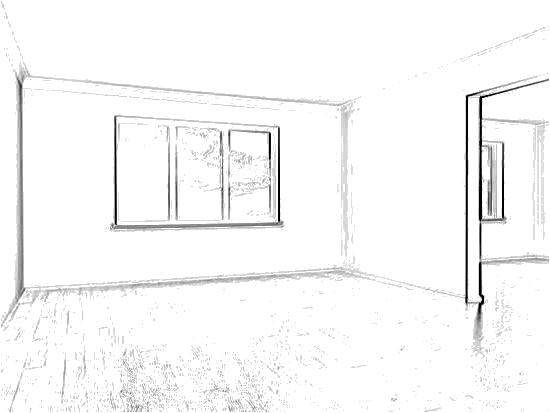
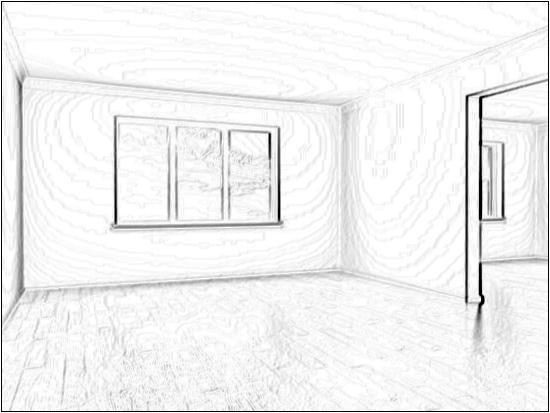
update

diff --git a/src/ImageProcessor.java b/src/ImageProcessor.java
@@ -39,9 +39,13 @@ public class ImageProcessor {
     private int thetaStrides;
     private int pStrides;
     /* Save sin and cos values for future calculation. */
-    private double sinArray[];
-    private double cosArray[];
+    private double[] sinArray;
+    private double[] cosArray;
     private int[][] houghTable;
+
+    /* for threshold */
+    private int[][] t1Image;
+    private int[][] t2Image;
 
     /* ----  Constructor ---- */
     public ImageProcessor(int[][] matrix, String id, int thetaStrides, int pStrides) {
@@ -63,6 +67,9 @@ public class ImageProcessor {
         cosArray = new double[this.thetaStrides];
         houghTable = new int[thetaStrides][pStrides];
         grayImage = image.clone();
+
+        this.t1Image = new int[height][width];
+        this.t2Image = new int[height][width];
     }
 
     /* --------------------- public methods ----------------------- */
@@ -83,20 +90,16 @@ public class ImageProcessor {
             }
         }
 
+
         String output = "./OutputImages/" + id + "_gaussian.jpg";
         drawImage(gaussianImage, output);
 
-//        for (int i = 0; i < 5; i++) {
-//            for (int j = 0; j < 5; j++) {
-//                System.out.print(mask[i][j] + " ");
-//            }
-//            System.out.println();
-//        }
+        image = gaussianImage.clone();
 
     }
 
     public void Sobel() {
-        int threshold = 30;
+        int threshold = 0;
         /* sobel operators */
         int[][] sobelX = {
                 {1, 0, -1},
@@ -188,15 +191,64 @@ public class ImageProcessor {
             }
         }
 
+
+
         image = nmsImage.clone();
 
         String output = "./OutputImages/" + id + "_nms.jpg";
         drawImage(nmsImage, output);
 
+        System.out.println("Non-maximum suppression end for " + id + ".");
     }
 
-    public void thresholding() {
+    /* threshold the image, use double threshold */
+    public void threshold(int t2) {
+        // 8-neighbours
+        int t1 = t2 / 2;
+        int[][] interPixels = new int[height][width];
+        for (int i = 0; i < height; i++) {
+            for (int j = 0; j < width; j++) {
+                t1Image[i][j] = image[i][j];
+                t2Image[i][j] = image[i][j];
+                if (image[i][j] + t1 > 255) {
+                    t1Image[i][j] = 255;
+                }
+                if (image[i][j] + t2 > 255) {
+                    t2Image[i][j] = 255;
+                }
+            }
+        }
 
+        for (int i = 0; i < height; i++) {
+            for (int j = 0; j < width; j++) {
+                if (t2Image[i][j] != 255) {
+                    checkNeighbors(interPixels, i, j);
+                }
+            }
+        }
+
+        for (int i = 0; i < height; i++) {
+            for (int j = 0; j < width; j++) {
+                if (interPixels[i][j] != 0 && t2Image[i][j] == 255) {
+                    t2Image[i][j] = interPixels[i][j];
+                }
+            }
+        }
+
+        // clean the boundary of the image
+        cleanBoundary(t1Image, 5);
+        cleanBoundary(t2Image, 5);
+
+        String interFile = "./OutputImages/" + id + "_interT.jpg";
+        drawImage(interPixels, interFile);
+
+        String t1File = "./OutputImages/" + id + "_t1.jpg";
+        String t2File = "./OutputImages/" + id + "_t2.jpg";
+        drawImage(t1Image, t1File);
+        drawImage(t2Image, t2File);
+
+        image = t2Image.clone();
+        System.out.println("Threshold end for " + id + ".");
     }
 
 
@@ -229,7 +281,6 @@ public class ImageProcessor {
         for (int i = 0; i < scale; i++) {
             for (int j = 0; j < scale; j++) {
                 double cur = gaussian(i - center, j - center, sigma);
-                System.out.println("gaussian: " + cur);
                 mask[i][j] = cur;
             }
         }
@@ -299,7 +350,24 @@ public class ImageProcessor {
         return false;
     }
 
-    /* ---- For houghTransform ---- */
+    /* ---- For threshold() ---- */
+    private void checkNeighbors(int[][] inter, int i, int j) {
+        // add connected points to the t2Image from t1Image
+        if (i < 2 || j < 2 || i > width - 2 || j > height - 2) {
+            return;
+        }
+        for (int m = 0; m < 3; m++) {
+            for (int n = 0; n < 3; n++) {
+                if (t2Image[i - 1 + m][j - 1 + n] == 255 && inter[i - 1 + m][j - 1 + n] == 0
+                        && t1Image[i - 1 + m][j - 1 + m] != 255) {
+                    inter[i - 1 + m][j - 1 + n] = t1Image[i - 1 + m][j - 1 + n];
+                }
+            }
+        }
+
+    }
+
+    /* ---- For houghTransform() ---- */
 
     /*
         i-j coordinate system.
@@ -468,7 +536,6 @@ public class ImageProcessor {
         File newImgFile = new File(path);
         int width = matrix[0].length;
         int height = matrix.length;
-        // System.out.println(" " + width + " " + height);
         try {
             BufferedImage image = new BufferedImage(matrix[0].length, matrix.length, BufferedImage.TYPE_3BYTE_BGR);
             for (int i = 0; i < width; i++) {
@@ -483,7 +550,37 @@ public class ImageProcessor {
         }
     }
 
+    /* get rid of the boundary caused by convolution */
+    private void cleanBoundary(int[][] matrix, int mag) {
+        for (int i = 0; i < mag; i++) {
+            for (int j = 0; j < height; j++) {
+                // gaussianImage[j][i] = image[j][i];
+                matrix[j][i] = 255;
+            }
+        }
+        for (int i = width - mag; i < width; i++) {
+            for (int j = 0; j < height; j++) {
+                // gaussianImage[j][i] = image[j][i];
+                matrix[j][i] = 255;
+            }
+        }
+        for (int i = 0; i < mag; i++) {
+            for (int j = 0; j < width; j++) {
+                // gaussianImage[i][j] = image[i][j];
+                matrix[i][j] = 255;
+            }
+        }
+        for (int i = height - mag; i < height; i++) {
+            for (int j = 0; j < width; j++) {
+                // gaussianImage[i][j] = image[i][j];
+                matrix[i][j] = 255;
+            }
+        }
+    }
 }
+
+
+
 
 
 /* ---- utility class ---- */

diff --git a/src/ParallelogramDetection.java b/src/ParallelogramDetection.java
@@ -25,23 +25,27 @@ public class ParallelogramDetection {
         imgProcessor.GaussianBlur(1, 5);
         imgProcessor.Sobel();
         imgProcessor.NMS();
+        imgProcessor.threshold(60);
         imgProcessor.houghTransform();
-
 
 
         ImageLoader imgLoader_2 = new ImageLoader("./TestImages/TestImage2c.jpg");
         ImageProcessor imgProcessor_2 = new ImageProcessor(imgLoader_2.getMatrix(), imgLoader_2.ID, 180, 1000);
-        imgProcessor_2.GaussianBlur(1, 5);
+        imgProcessor_2.GaussianBlur(1, 3);
         imgProcessor_2.Sobel();
         imgProcessor_2.NMS();
+        imgProcessor_2.threshold(40);
         imgProcessor_2.houghTransform();
+
 
         ImageLoader imgLoader_3 = new ImageLoader("./TestImages/TestImage3.jpg");
         ImageProcessor imgProcessor_3 = new ImageProcessor(imgLoader_3.getMatrix(), imgLoader_3.ID, 180, 1000);
         imgProcessor_3.GaussianBlur(1, 3);
         imgProcessor_3.Sobel();
         imgProcessor_3.NMS();
+        imgProcessor_3.threshold(30);
         imgProcessor_3.houghTransform();
+
 
 
 

diff --git a/src/ParallelogramDetector.java b/src/ParallelogramDetector.java
@@ -1,0 +1,31 @@
+import java.util.List;
+
+/**
+ * project: ParallelogramDetection
+ *
+ * @author YubaiTao on 10/11/2017.
+ */
+public class ParallelogramDetector {
+    private static final int MIN_AREA = 100;
+    private int[][] image;
+    private List<Line> lineList;
+
+    /* Constructor */
+    public ParallelogramDetector(int[][] image, List<Line> lineList) {
+        this.image = image;
+        this.lineList = lineList;
+    }
+
+    private List<Line> lineDistinction() {
+
+    }
+}
+
+class Pair {
+
+}
+
+class Parallelogram {
+
+}
+
